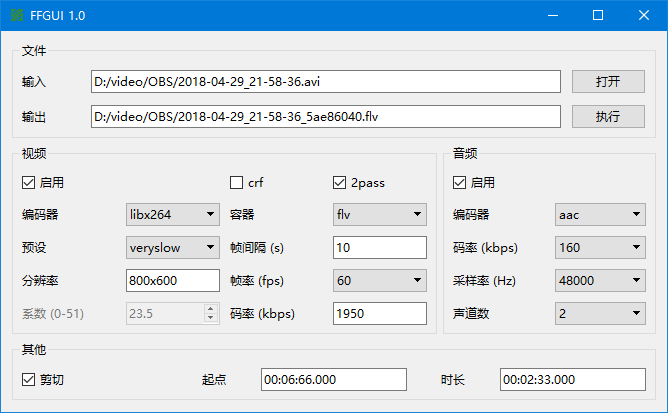
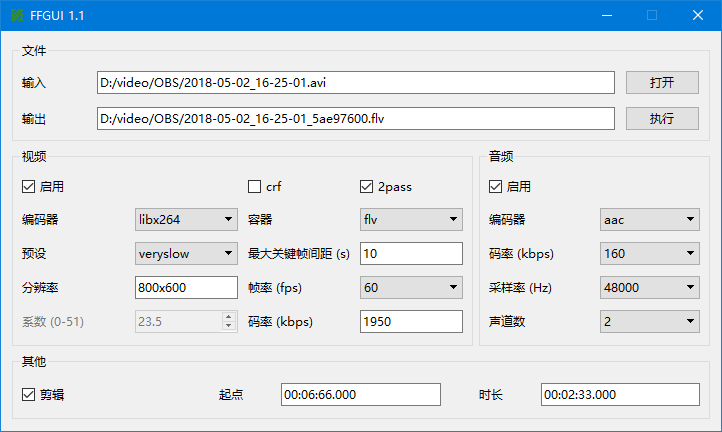
update 1.1

diff --git a/zh_CN.ts b/zh_CN.ts
@@ -58,7 +58,7 @@
     <message>
         <location filename="ffgui.cpp" line="168"/>
         <source>Keyframe Interval (s)</source>
-        <translation>帧间隔 (s)</translation>
+        <translation>最大关键帧间距 (s)</translation>
     </message>
     <message>
         <location filename="ffgui.cpp" line="177"/>
@@ -83,7 +83,7 @@
     <message>
         <location filename="ffgui.cpp" line="327"/>
         <source>Cutting</source>
-        <translation>剪切</translation>
+        <translation>剪辑</translation>
     </message>
     <message>
         <location filename="ffgui.cpp" line="332"/>

diff --git a/main.cpp b/main.cpp
@@ -30,13 +30,13 @@ int main(int argc, char *argv[])
     const float default_dpi = 96.0f;
     float scale_x = dpi_x / default_dpi;
     float scale_y = dpi_y / default_dpi;
-    int width = 666 * scale_x;
-    int height = 333 * scale_y;
+    int width = 720 * scale_x;
+    int height = 400 * scale_y;
 
     FFGUI *ui = new FFGUI;
     ui->setAttribute(Qt::WA_DeleteOnClose);
-    ui->setWindowTitle("FFGUI 1.0");
-    ui->resize(width, height);
+    ui->setWindowTitle("FFGUI 1.1");
+    ui->setFixedSize(width, height);
     ui->show();
 
     return app.exec();
